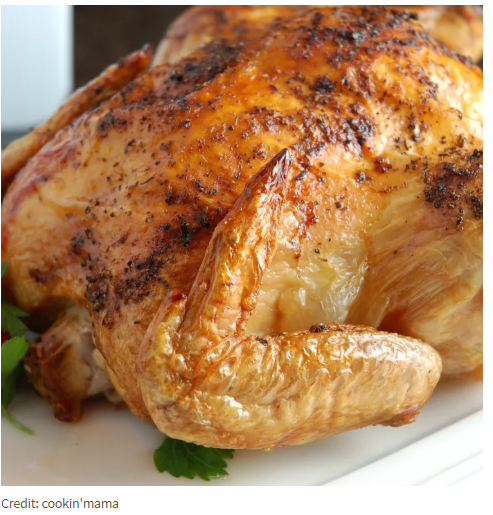
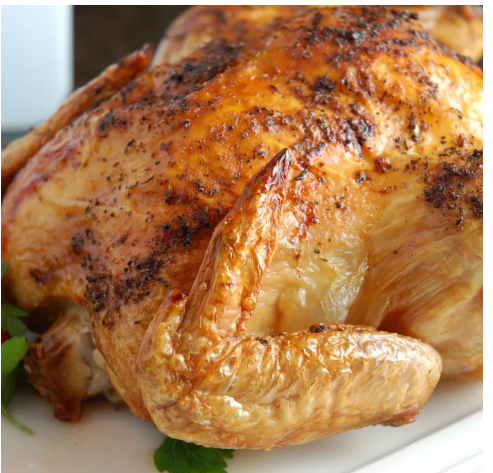
Align files and resize photo
The pasta-salad.html file was put in the right folder and images resized

diff --git a/recipes/srrchicken.html b/recipes/srrchicken.html
@@ -9,7 +9,7 @@
   <a href="../index.html">Home</a>
 
   <h1>Spicy Rapid Roast Chicken</h1>
-  <img src="./images/ssrchicken.PNG" alt="spicy rapid roast chicken">
+  <img src="./images/ssrchicken.PNG" alt="spicy rapid roast chicken" height="300">
   <h2>Spicy Rapid Roast Chicken</h2>
   <p>This is the kind of recipe that you just throw together. No need to truss or fuss. Pop it into a very hot oven and it is ready in a hurry.</p>
   <h3>Ingredients</h3>

diff --git a/recipes/pasta-salad.html b/recipes/pasta-salad.html
@@ -8,7 +8,7 @@
 <body>
   <a href="/index.html">Home</a>
   <H1>Pasta Salad</H1>
-  <img src="../images/pasta-salad.PNG" alt="A bowl of pasta salad" height="300">
+  <img src="./images/pasta-salad.PNG" alt="A bowl of pasta salad" height="300">
   <h2>Pasta salad</h2>
   <p>This easy pasta salad recipe comes together quickly with convenient ingredients and colorful vegetables.</p>
   <h3>Ingredients</h3>
